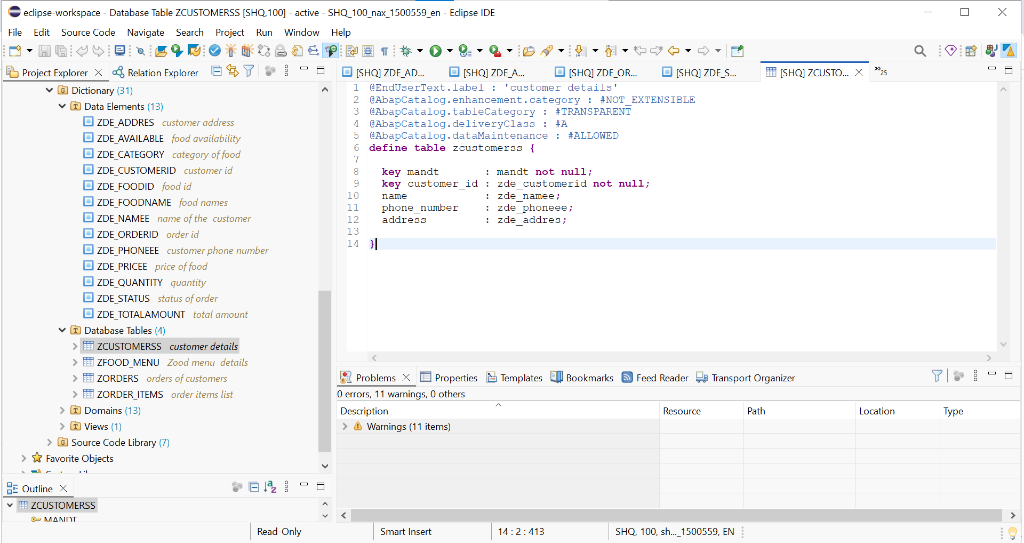
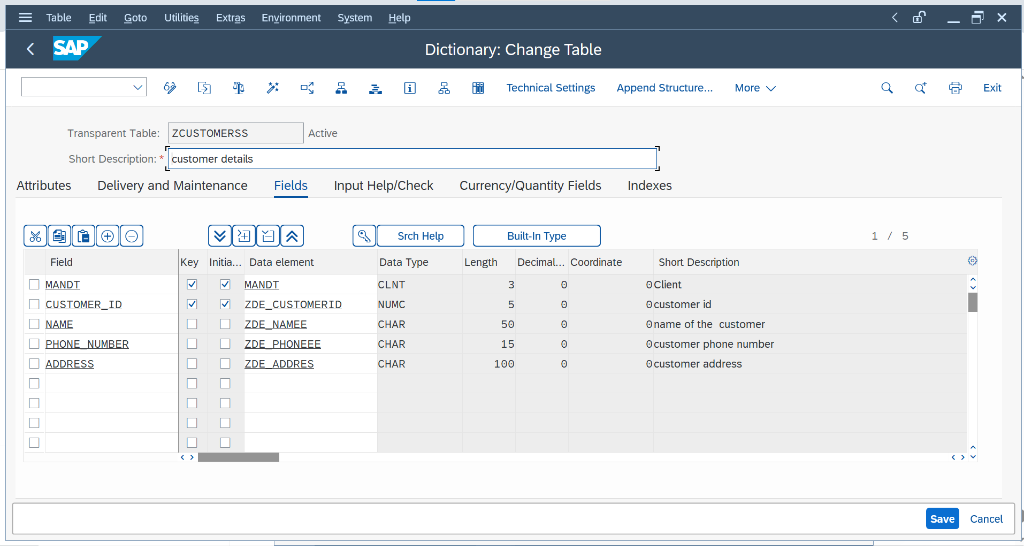
Update README.md with table structure and data screenshots

diff --git a/README.md b/README.md
@@ -87,7 +87,20 @@ The ABAP development elements saved directly from the Eclipse ADT workspace:
 ### 4. Service Bindings
 ![Service Binding](screenshots/07_Service_Binding.png)
 
-### 5. Dictionary Tables
+### 5. Dictionary Tables & Data
 * **Customers Table (`ZCUSTOMERSS`) Structure**:
 ![Customers Table](screenshots/11_Table_Customers.png)
+
+* **Customers Table (`ZCUSTOMERSS`) Data Select**:
+![Customers Table Data](screenshots/11_Table_Customers_Data.png)
+
+* **Food Menu Table (`ZFOOD_MENU`) Structure**:
+![Food Menu Table](screenshots/12_Table_FoodMenu.png)
+
+* **Food Menu Table (`ZFOOD_MENU`) Data Select**:
+![Food Menu Table Data](screenshots/12_Table_FoodMenu_Data.png)
+
+* **Orders Table (`ZORDERS`) Structure**:
+![Orders Table](screenshots/13_Table_Orders.png)
+
 
